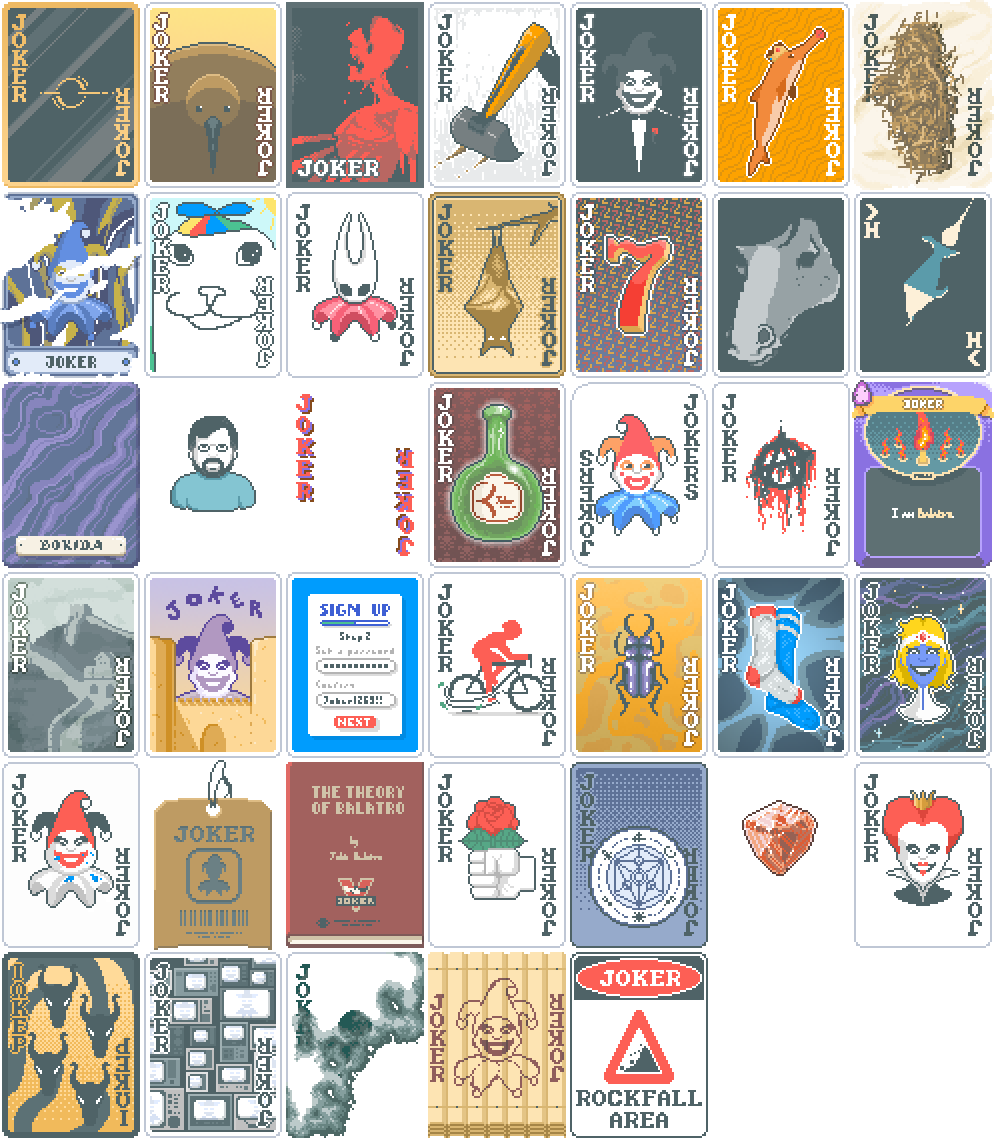
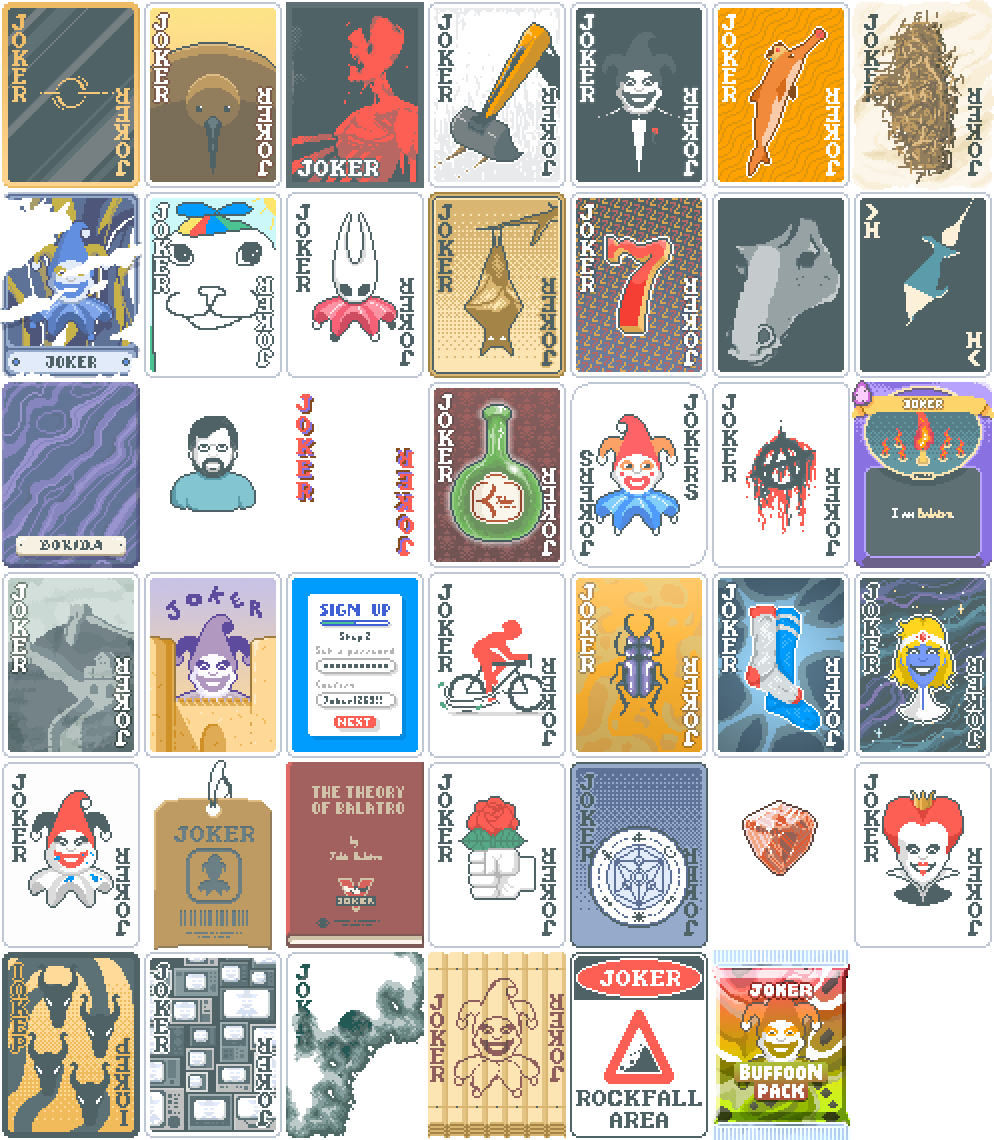
added collector booster

Changed region(s): [[0.7173, 0.8289, 0.8732, 1.0]]

diff --git a/README.md b/README.md
@@ -210,6 +210,10 @@ ___
 All **Diamond** cards are considered **Kings**<br>
 ___
 
+### Collector Booster
+All Jokers in **Shop** and **Booster** are **Uncommon**<br>
+___
+
 # Legendary
 ### Bokida
 ![image](https://github.com/user-attachments/assets/a1baa977-79d5-4a59-ba1b-8418ac020759)<br>
